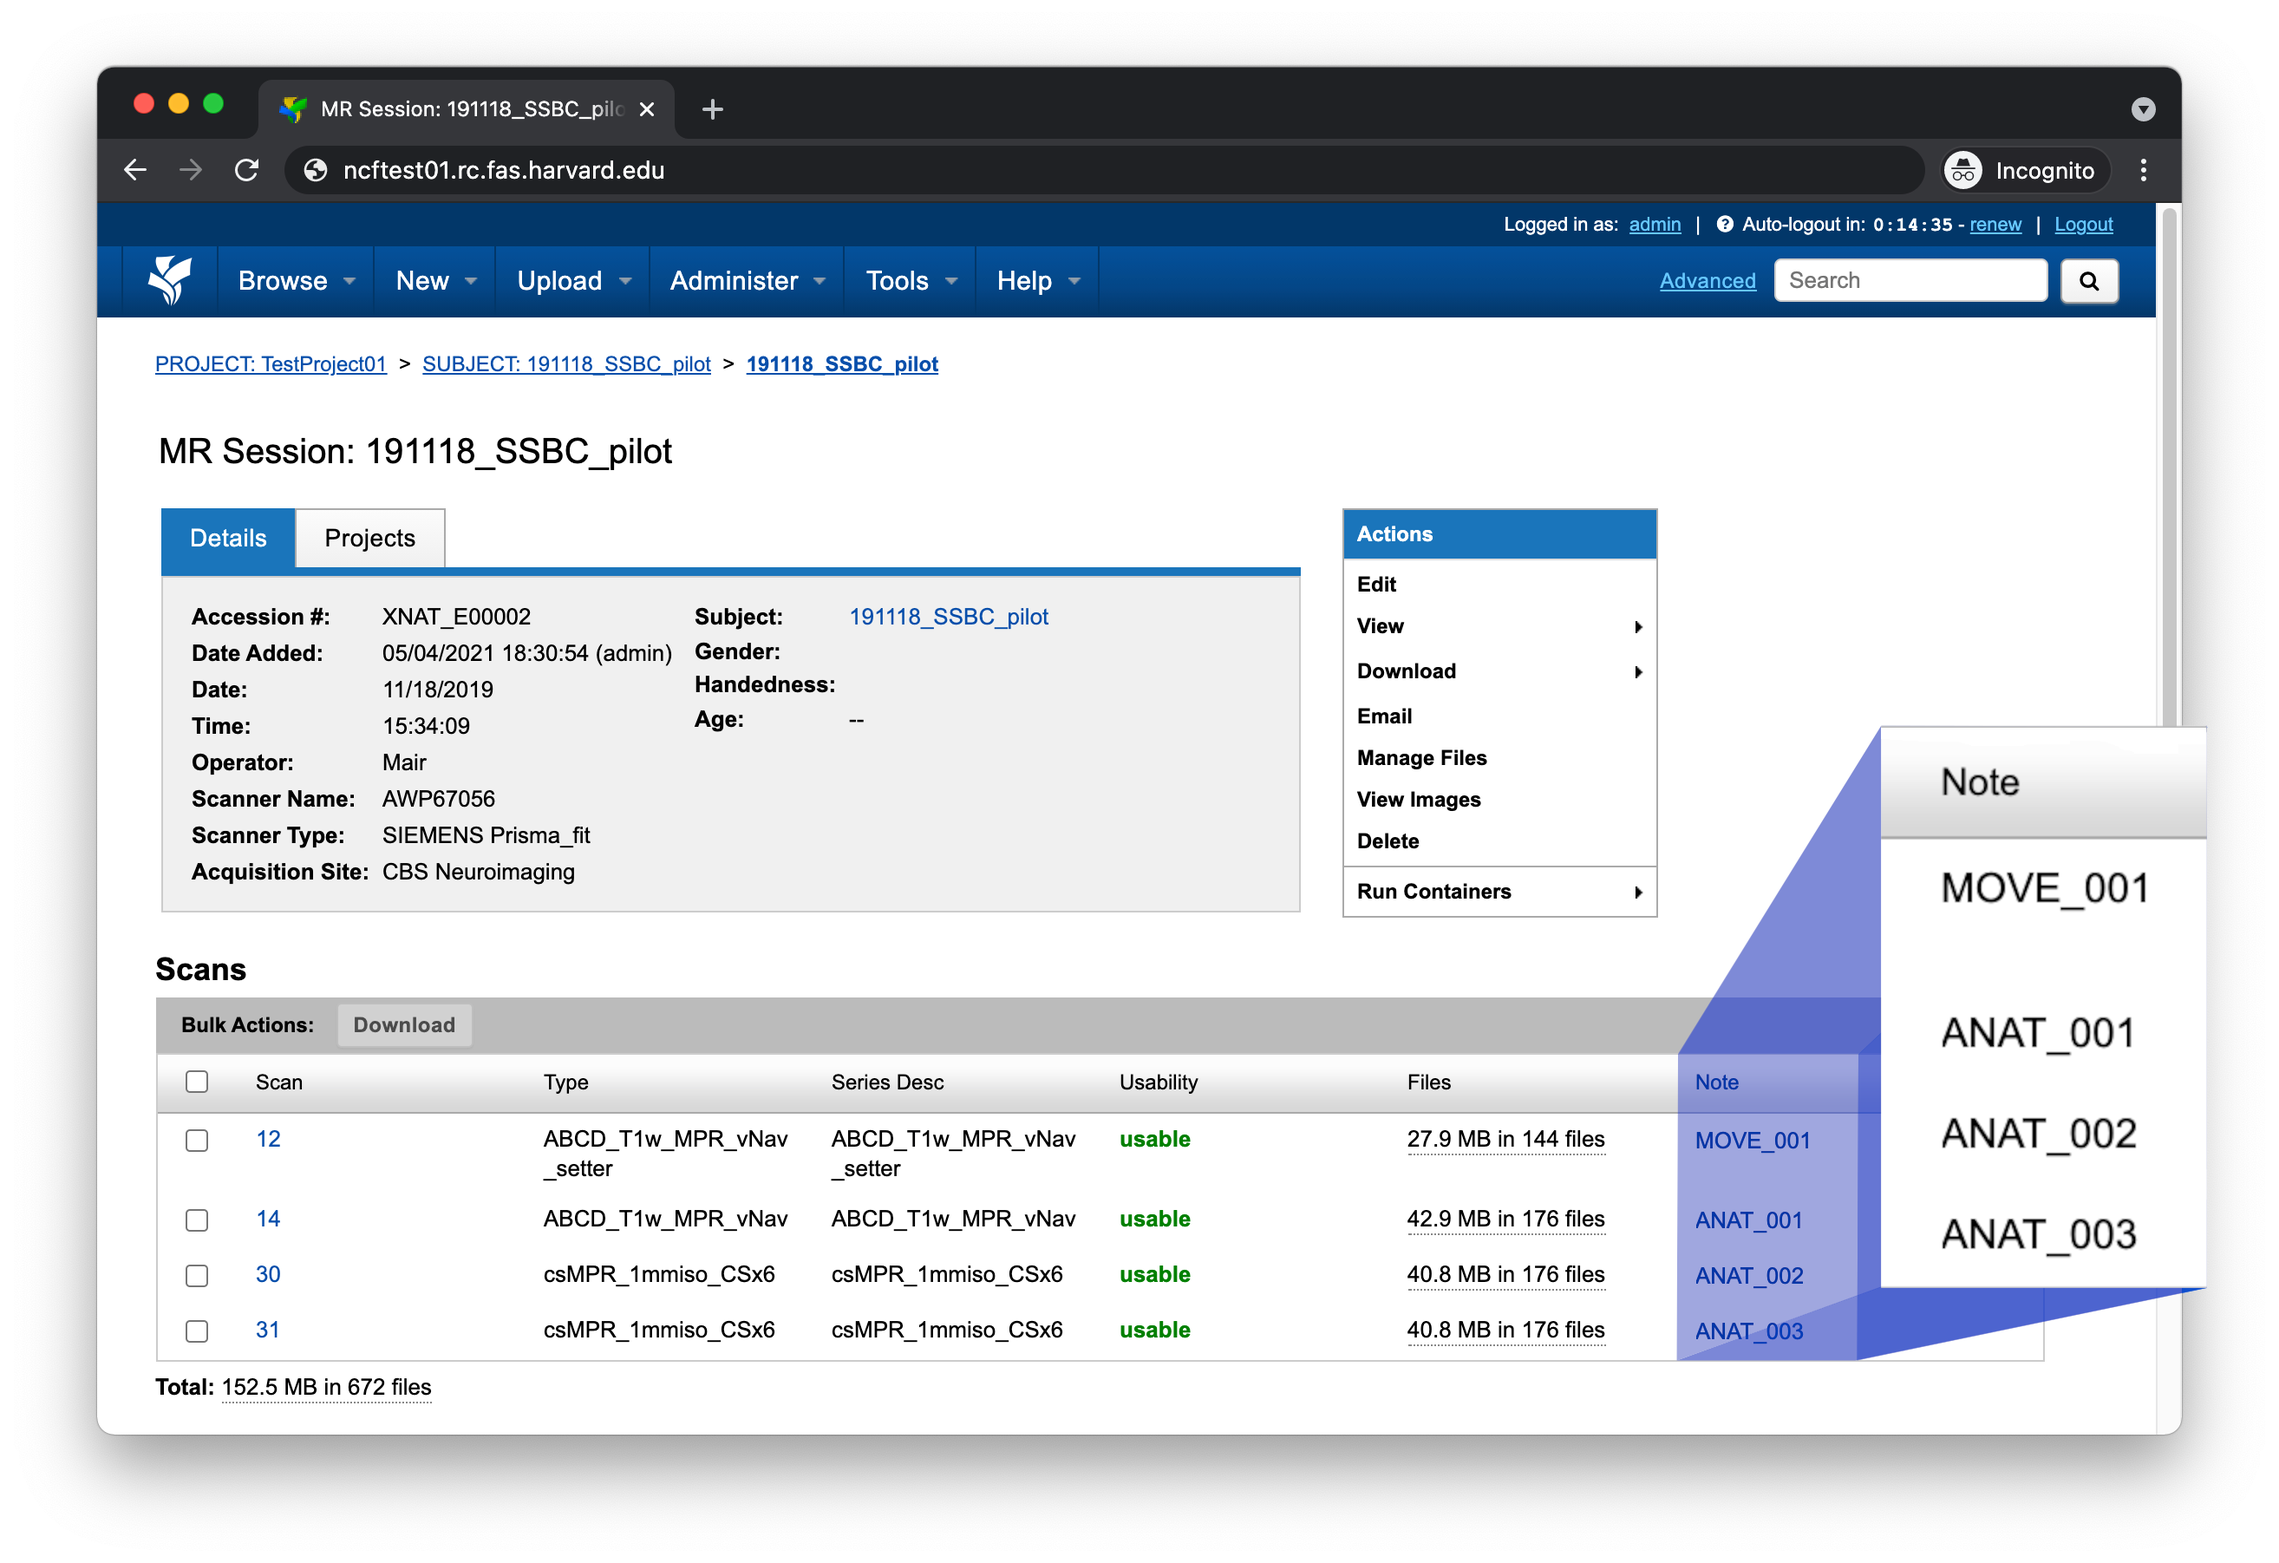
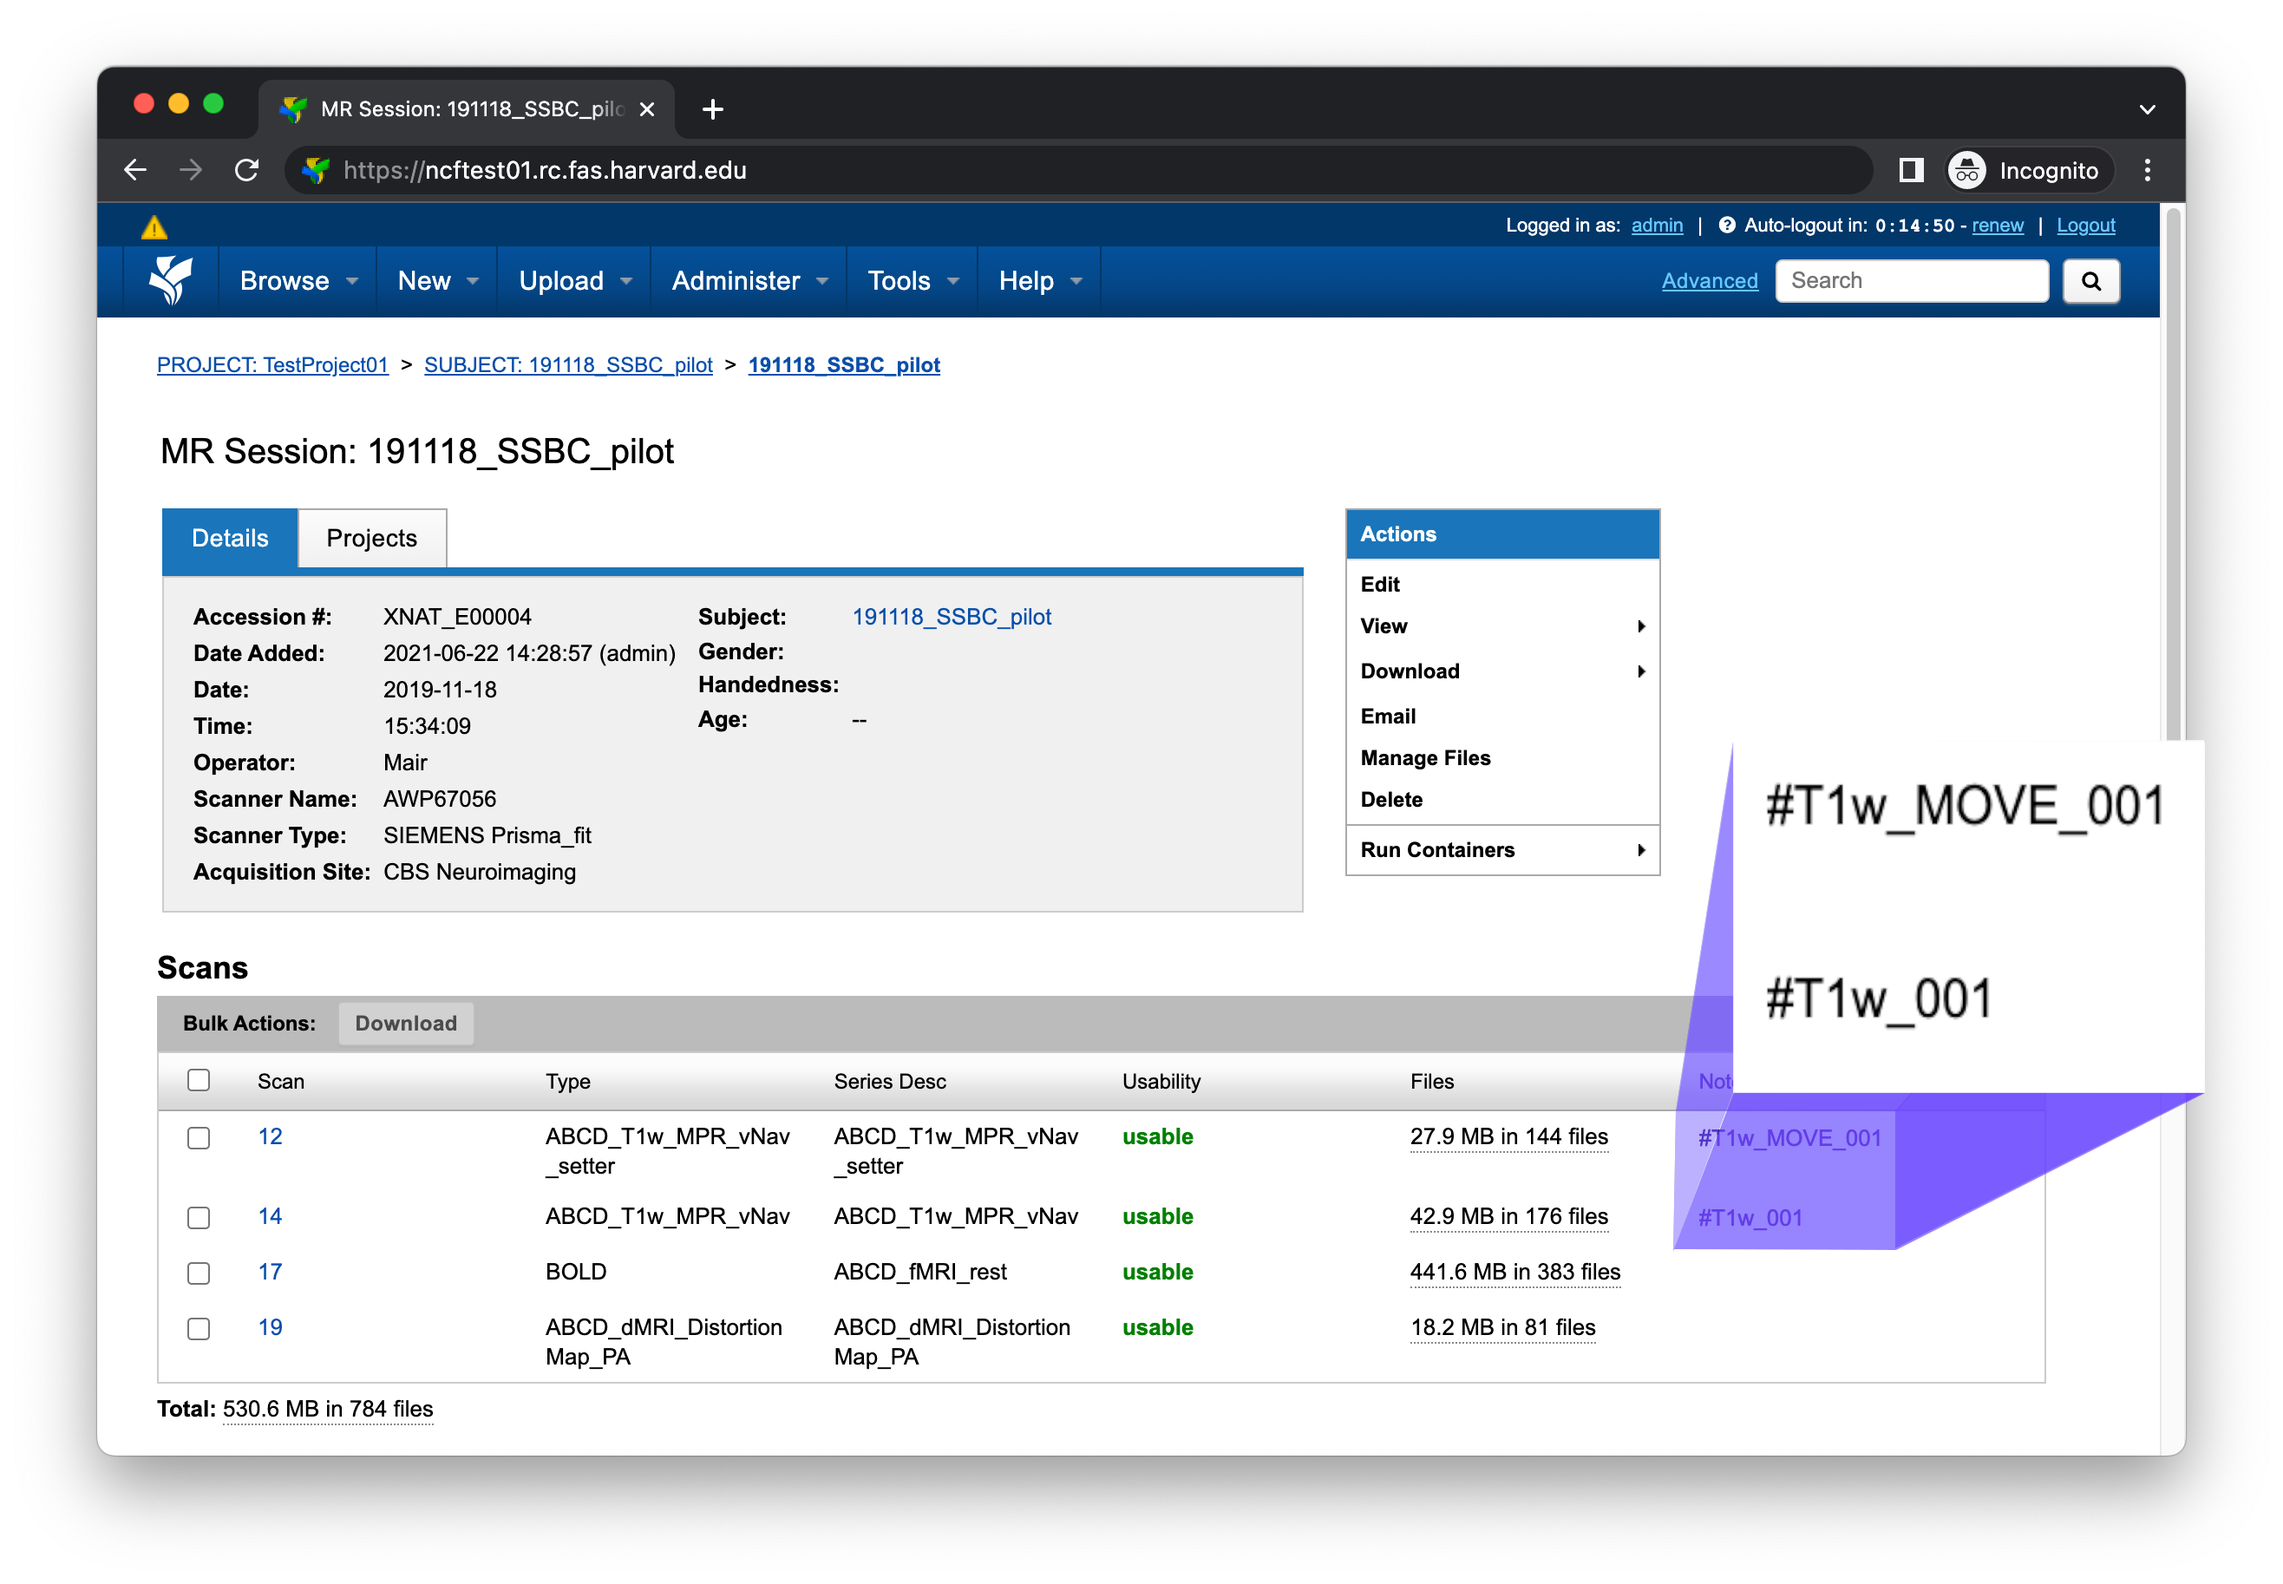
use scratch filesystem for morph processing and allow elexible scan tagging

diff --git a/scripts/anatQC.py b/scripts/anatQC.py
@@ -4,12 +4,15 @@ import anatqc
 import logging
 import argparse as ap
 import anatqc.cli as cli
+import anatqc.config as config
 
 logger = logging.getLogger(__name__)
 
 def main():
     parser = ap.ArgumentParser()
     parser.add_argument('-v', '--verbose', action='store_true')
+    parser.add_argument('-c', '--config', default=config.default(),
+        help='AnatQC configuration file')
     subparsers = parser.add_subparsers(help='sub-command help')
     # get mode
     parser_get = subparsers.add_parser('get', help='get -h')
@@ -27,6 +30,8 @@ def main():
         help='XNAT username')
     parser_get.add_argument('--xnat-pass',
         help='XNAT password')
+    parser_get.add_argument('--dry-run', action='store_true',
+        help='Do not execute any jobs')
     parser_get.set_defaults(func=cli.get.do)
     # process mode
     parser_process = subparsers.add_parser('process', help='process -h')
@@ -47,7 +52,7 @@ def main():
     parser_process.add_argument('--bids-dir', required=True,
         help='BIDS root directory')
     parser_process.add_argument('--dry-run', action='store_true',
-        help='Do not actually execute any jobs')
+        help='Do not execute any jobs')
     parser_process.add_argument('--sub-tasks', nargs='+', default=['morph', 'mriqc', 'vnav'],
         help='Run only certain sub tasks')
     parser_process.add_argument('--fs-license',
@@ -82,7 +87,7 @@ def main():
     parser_tandem.add_argument('--rate-limit', type=int, default=None, 
         help='Rate limit the number of tasks executed in parallel (1=serial)')
     parser_tandem.add_argument('--dry-run', action='store_true',
-        help='Do not actually execute any jobs')
+        help='Do not execute any jobs')
     parser_tandem.add_argument('--sub-tasks', nargs='+', default=['morph', 'mriqc', 'vnav'],
         help='Run only certain sub tasks')
     parser_tandem.add_argument('--fs-license',

diff --git a/anatqc/cli/tandem.py b/anatqc/cli/tandem.py
@@ -1,5 +1,6 @@
 import os
 import re
+import sys
 import json
 import yaml
 import yaxil
@@ -25,19 +26,22 @@ def do(args):
     os.environ['XNAT_HOST'] = auth.url
     os.environ['XNAT_USER'] = auth.username
     os.environ['XNAT_PASS'] = auth.password
-    # query "MOVE_\d+" and "ANAT_\d+" into a dictionary
+
+    conf = yaml.safe_load(open(args.config))
+
+    # query T1w and vNav scans from XNAT
     with yaxil.session(auth) as ses:
         scans = col.defaultdict(dict)
         for scan in ses.scans(label=args.label, project=args.project):
             note = scan['note']
-            re_move = re.match('MOVE_(\d+)', note)
-            re_anat = re.match('ANAT_(\d+)', note)
-            if re_move:
-                run = re_move.group(1)
+            move_match = match(note, conf['anatqc']['t1w_vnav']['tags'])
+            anat_match = match(note, conf['anatqc']['t1w']['tags'])
+            if move_match:
+                run = move_match.group('run')
                 if int(run) == int(args.run):
                     scans[run]['move'] = scan['id']
-            if re_anat:
-                run = re_anat.group(1)
+            if anat_match:
+                run = anat_match.group('run')
                 if int(run) == int(args.run):
                     scans[run]['anat'] = scan['id']
     subject_label = scan['subject_label']
@@ -58,4 +62,11 @@ def do(args):
         args.ses = 'ses-' + bids_ses_label
         logger.debug('sub=%s, ses=%s', args.sub, args.ses)
         anatqc.cli.process.do(args)
+
+def match(note, patterns):
+    for pattern in patterns:
+        match = re.match(pattern, note, flags=re.IGNORECASE)
+        if match:
+            return match
+    return None
 

diff --git a/anatqc/cli/get.py b/anatqc/cli/get.py
@@ -22,18 +22,21 @@ def do(args):
     os.environ['XNAT_HOST'] = auth.url
     os.environ['XNAT_USER'] = auth.username
     os.environ['XNAT_PASS'] = auth.password
-    # query "MOVE_\d+" and "ANAT_\d+" into a dictionary
+
+    conf = yaml.safe_load(open(args.config))
+
+    # query T1w and vNav scans from XNAT
     with yaxil.session(auth) as ses:
         scans = col.defaultdict(dict)
         for scan in ses.scans(label=args.label, project=args.project):
             note = scan['note']
-            re_move = re.match('MOVE_(\d+)', note)
-            re_anat = re.match('ANAT_(\d+)', note)
-            if re_move:
-                run = re_move.group(1)
+            move_match = match(note, conf['anatqc']['t1w_vnav']['tags'])
+            anat_match = match(note, conf['anatqc']['t1w']['tags'])
+            if move_match:
+                run = move_match.group('run')
                 scans[run]['move'] = scan['id']
-            if re_anat:
-                run = re_anat.group(1)
+            if anat_match:
+                run = anat_match.group('run')
                 scans[run]['anat'] = scan['id']
     logger.info(json.dumps(scans, indent=2))
 
@@ -106,4 +109,11 @@ def get_anat(args, auth, run, scan, verbose=False):
     logger.info(sp.list2cmdline(cmd))
     if not args.dry_run:
         sp.check_output(cmd, input=config.encode('utf-8'))
+
+def match(note, patterns):
+    for pattern in patterns:
+        match = re.match(pattern, note, flags=re.IGNORECASE)
+        if match:
+            return match
+    return None
 

diff --git a/anatqc/tasks/morph.py b/anatqc/tasks/morph.py
@@ -66,10 +66,14 @@ class Task(tasks.BaseTask):
             '--debug',
             '--steps'
         ]
+        cmd.extend(steps)
+        if self._tempdir:
+            cmd.extend([
+                '--scratch-dir', self._tempdir
+            ])
         if self._pipenv:
             os.chdir(self._pipenv)
             cmd[:0] = ['pipenv', 'run']
-        cmd.extend(steps)
         logdir = self.logdir()
         # copy json sidecar into output logs directory
         sidecar = BIDS.sidecar_for_image(self._infile)

diff --git a/anatqc/cli/process.py b/anatqc/cli/process.py
@@ -61,7 +61,8 @@ def do(args):
         else:
             task = morph.Task(
                 infile,
-                morph_outdir
+                morph_outdir,
+                tempdir=tempfile.gettempdir()
             )
             logger.info(json.dumps(task.command, indent=1))
             jarray.add(task.job)

diff --git a/anatqc/__version__.py b/anatqc/__version__.py
@@ -1,6 +1,6 @@
 __title__ = 'anatqc'
 __description__ = 'Anatomical QC'
 __url__ = 'https://github.com/harvard-nrg/anatqc'
-__version__ = '0.4.5'
+__version__ = '0.5.0'
 __author__ = 'Neuroinformatics Research Group'
 __author_email__ = 'info@neuroinfo.org'

diff --git a/setup.py b/setup.py
@@ -27,7 +27,7 @@ setup(
     url=about['__url__'],
     packages=find_packages(),
     package_data={
-        '': ['*.tar.gz']
+        '': ['*.tar.gz', '*.yaml']
     },
     include_package_data=True,
     scripts=[

diff --git a/anatqc/config/__init__.py b/anatqc/config/__init__.py
@@ -1,0 +1,11 @@
+import os
+import yaml
+
+__dir__ = os.path.dirname(__file__)
+
+def default():
+    conf = os.path.join(
+        __dir__,
+        'anatqc.yaml'
+    )
+    return conf

diff --git a/docs/source/xnat.rst b/docs/source/xnat.rst
@@ -19,17 +19,17 @@ Tagging your scans
 ------------------
 For AnatQC to discover `T1w`_ and `vNav`_ scans to process, you need to add notes to those scans in `XNAT`_. You can add notes using the ``Edit`` button located within the ``Actions`` box on the MR Session report page
 
-========= ============================ ===================================
+========= ============================ ==================================================
 Type      Example series               Note
-========= ============================ ===================================
-`T1w`_    ``ABCD_T1w_MPR_vNav``        ``ANAT_001, ANAT_002, ..., ANAT_N``
-`vNav`_   ``ABCD_T1w_MPR_vNav_setter`` ``MOVE_001, MOVE_002, ..., MOVE_N``
-========= ============================ ===================================
+========= ============================ ==================================================
+`T1w`_    ``ABCD_T1w_MPR_vNav``        ``#T1w_001, #T1w_002, ..., #T1w_N``
+`vNav`_   ``ABCD_T1w_MPR_vNav_setter`` ``#T1w_move_001, #T1w_move_002, ..., #T1w_move_N``
+========= ============================ ==================================================
 
 The image below displays an MR Session report page with populated notes
 
 .. note::
-   Note that if an ``ANAT`` scan has a corresponding ``MOVE`` scan, they should be assigned matching numbers. For example, ``MOVE_001`` would correspond to ``ANAT_001``.
+   Note that if a ``T1w`` scan has a corresponding ``vNav`` scan, they should be assigned matching numbers. For example, ``#T1w_move_001`` would correspond to ``#T1w_001``.
 
 .. image:: images/xnat-scan-notes.png
 
@@ -49,14 +49,14 @@ This should bring up a small form with several configurable settings. Continue r
 
 run
 ^^^
-This should be set to the integer value of the scan you want to process. If there's a corresponding ``MOVE`` scan, that scan will also be processed
+This should be set to the integer value of the scan you want to process. If there's a corresponding ``move`` scan, that scan will also be processed
 
 ============== =======
-ANAT scan      run
+T1w scan       run
 ============== =======
-``ANAT_001``   1
-``ANAT_002``   2
-``ANAT_999``   999
+``#T1w_001``   1
+``#T1w_002``   2
+``#T1w_999``   999
 ============== =======
 
 subtasks
